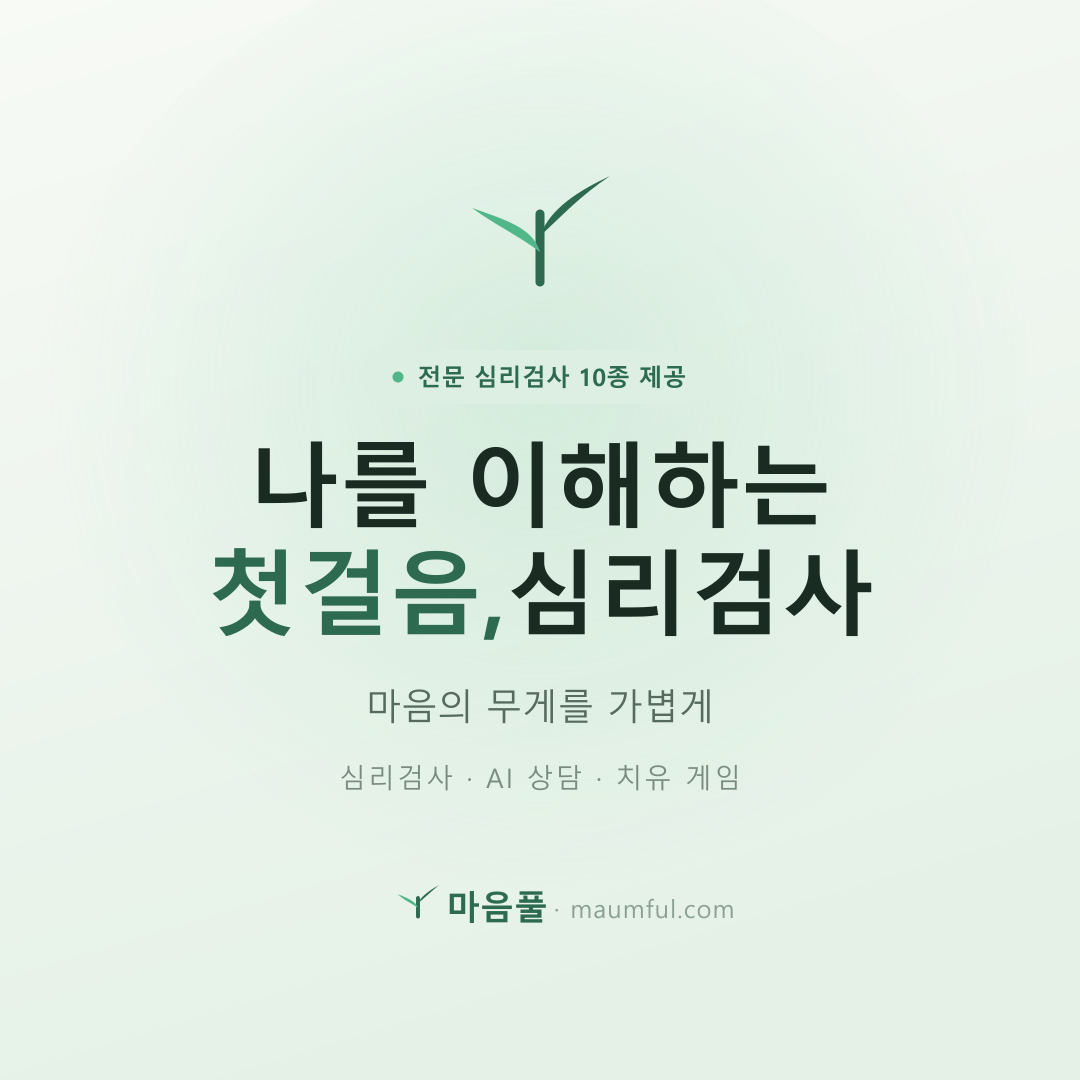
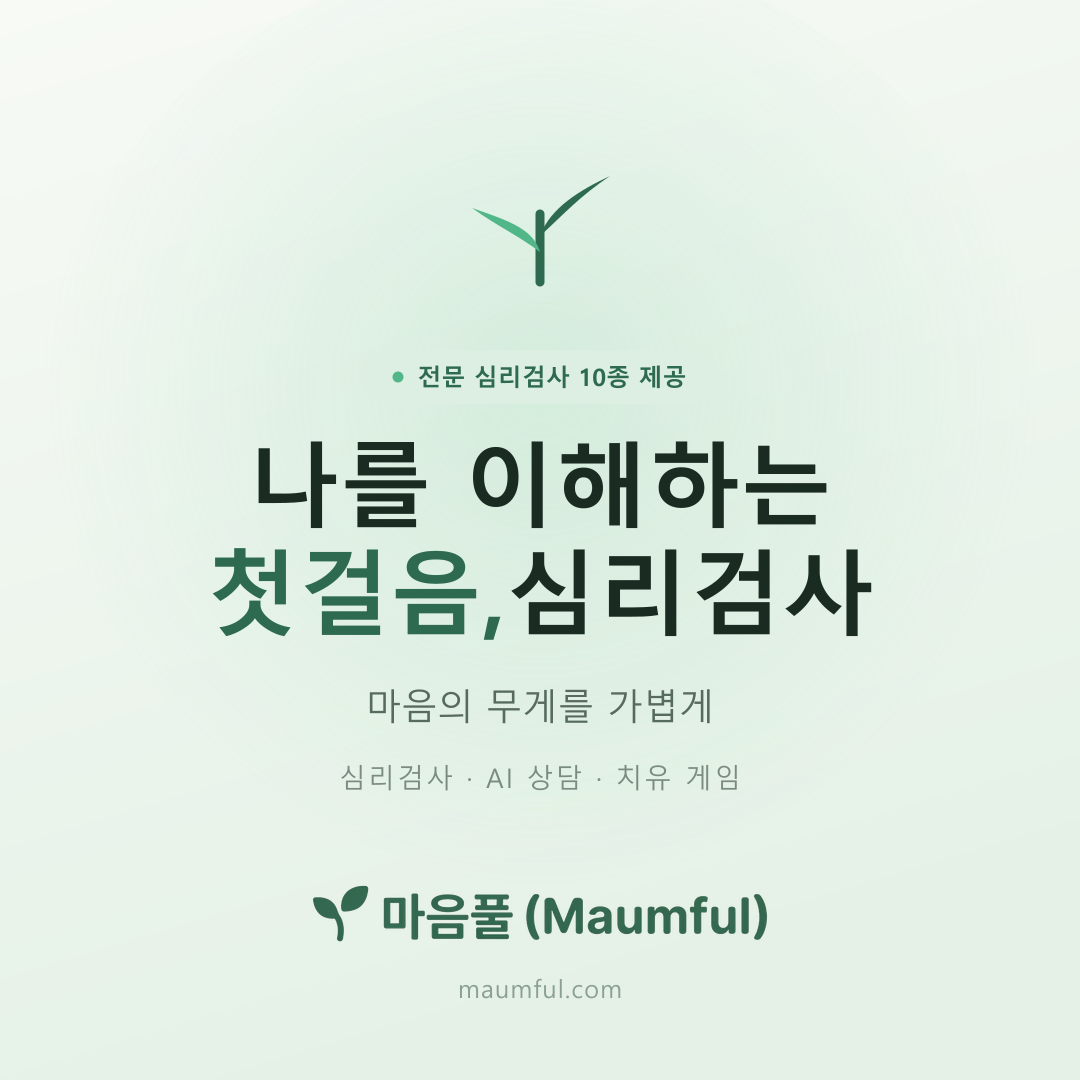
[maumful] OG 공유 이미지를 공식 로고로 갱신 + 카카오 캐시버전(?v=)
- gen_og.cjs: 하단 브랜드를 공식 로고(마음풀(Maumful) 워드마크·maumful-logo.png) 합성으로 교체, og-share.png 재생성
- og:image/twitter:image에 ?v=20260731 붙여 카카오·스크래퍼 재수집 유도

Changed region(s): [[0.275, 0.825, 0.7333, 0.8861]]

diff --git a/maumful-main/src/index.tsx b/maumful-main/src/index.tsx
@@ -4772,7 +4772,7 @@ app.get('/', (c) => {
   <meta property="og:description" content="PHQ-9·Big5 등 8종 심리검사 무료 시작. 가입 즉시 20 크레딧 지급 · AI 상담 · 제휴 상담사 연결.">
   <meta property="og:type" content="website">
   <meta property="og:url" content="${siteUrl}/">
-  <meta property="og:image" content="${siteUrl}/static/og-share.png">
+  <meta property="og:image" content="${siteUrl}/static/og-share.png?v=20260731">
   <meta property="og:image:width" content="1080">
   <meta property="og:image:height" content="1080">
   <meta property="og:image:alt" content="마음풀 — 마음의 무게를 가볍게">
@@ -4783,7 +4783,7 @@ app.get('/', (c) => {
   <meta name="twitter:card" content="summary">
   <meta name="twitter:title" content="마음풀 — 온라인 심리검사 & AI 마음 상담">
   <meta name="twitter:description" content="PHQ-9·Big5 등 8종 심리검사. 가입 즉시 20 크레딧 무료.">
-  <meta name="twitter:image" content="${siteUrl}/static/og-share.png">
+  <meta name="twitter:image" content="${siteUrl}/static/og-share.png?v=20260731">
 
   <!-- JSON-LD 구조화 데이터 -->
   <script type="application/ld+json">{
